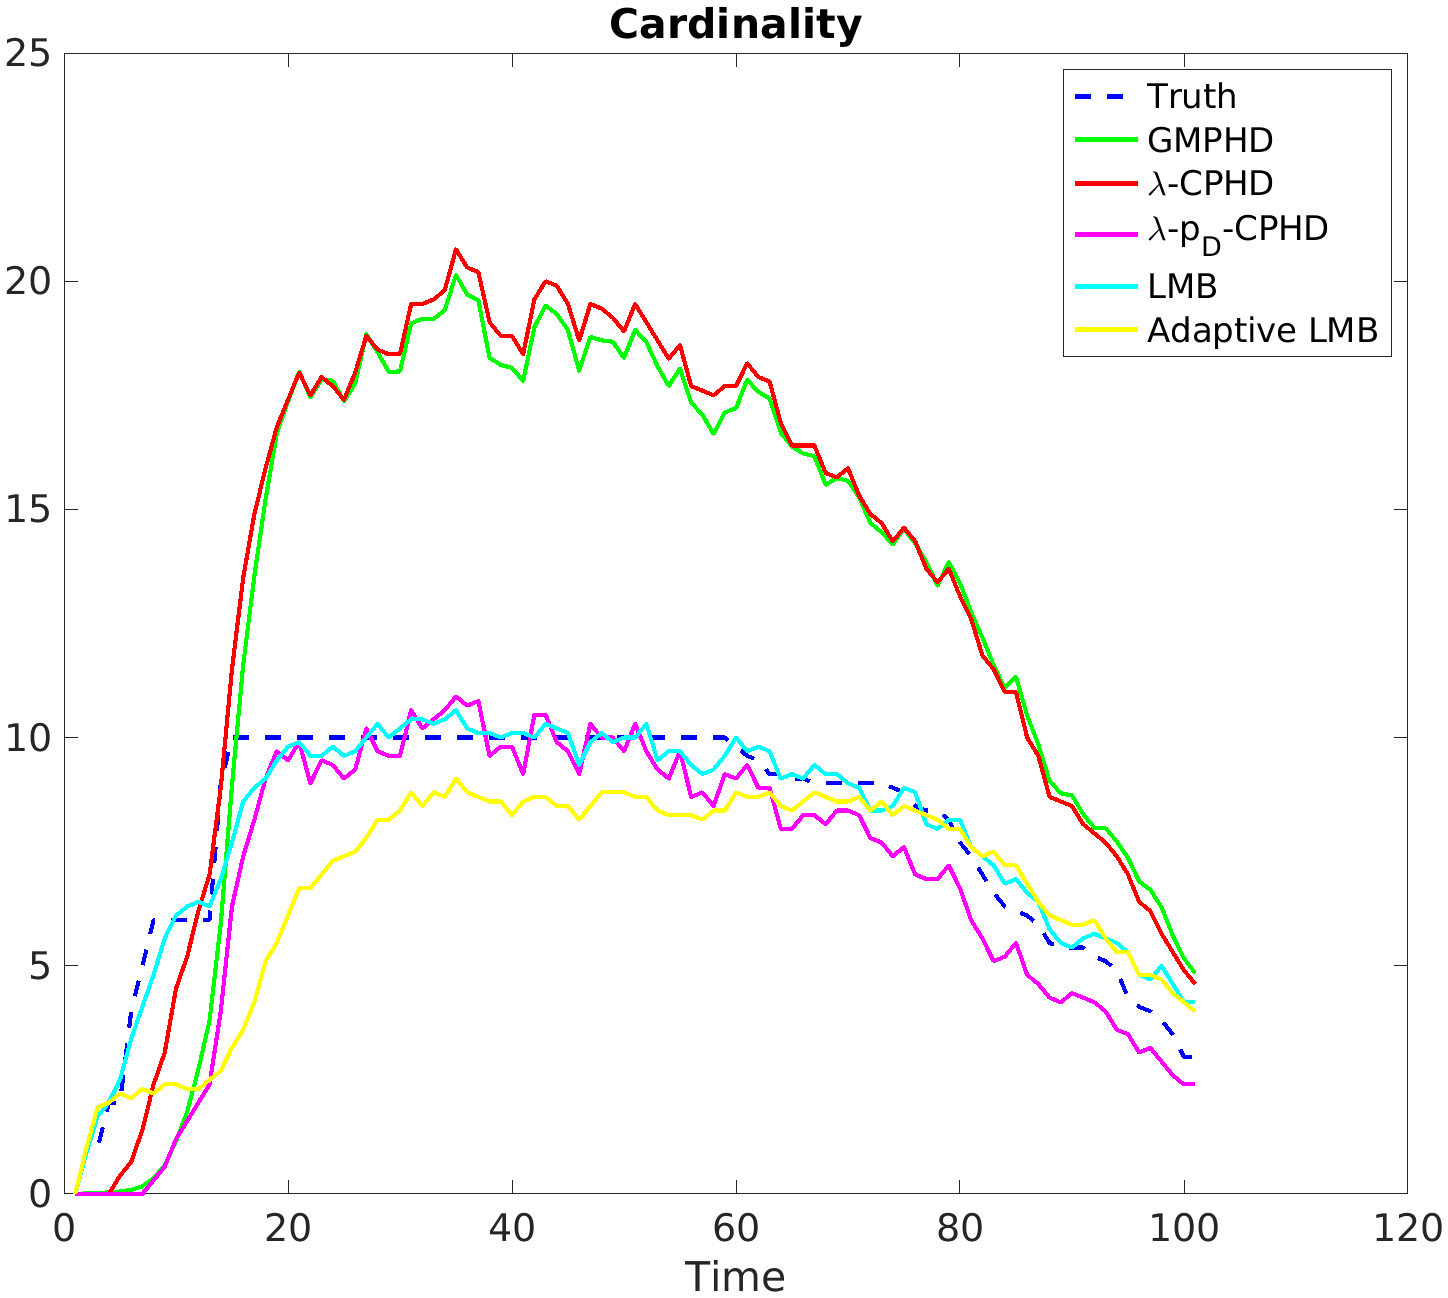
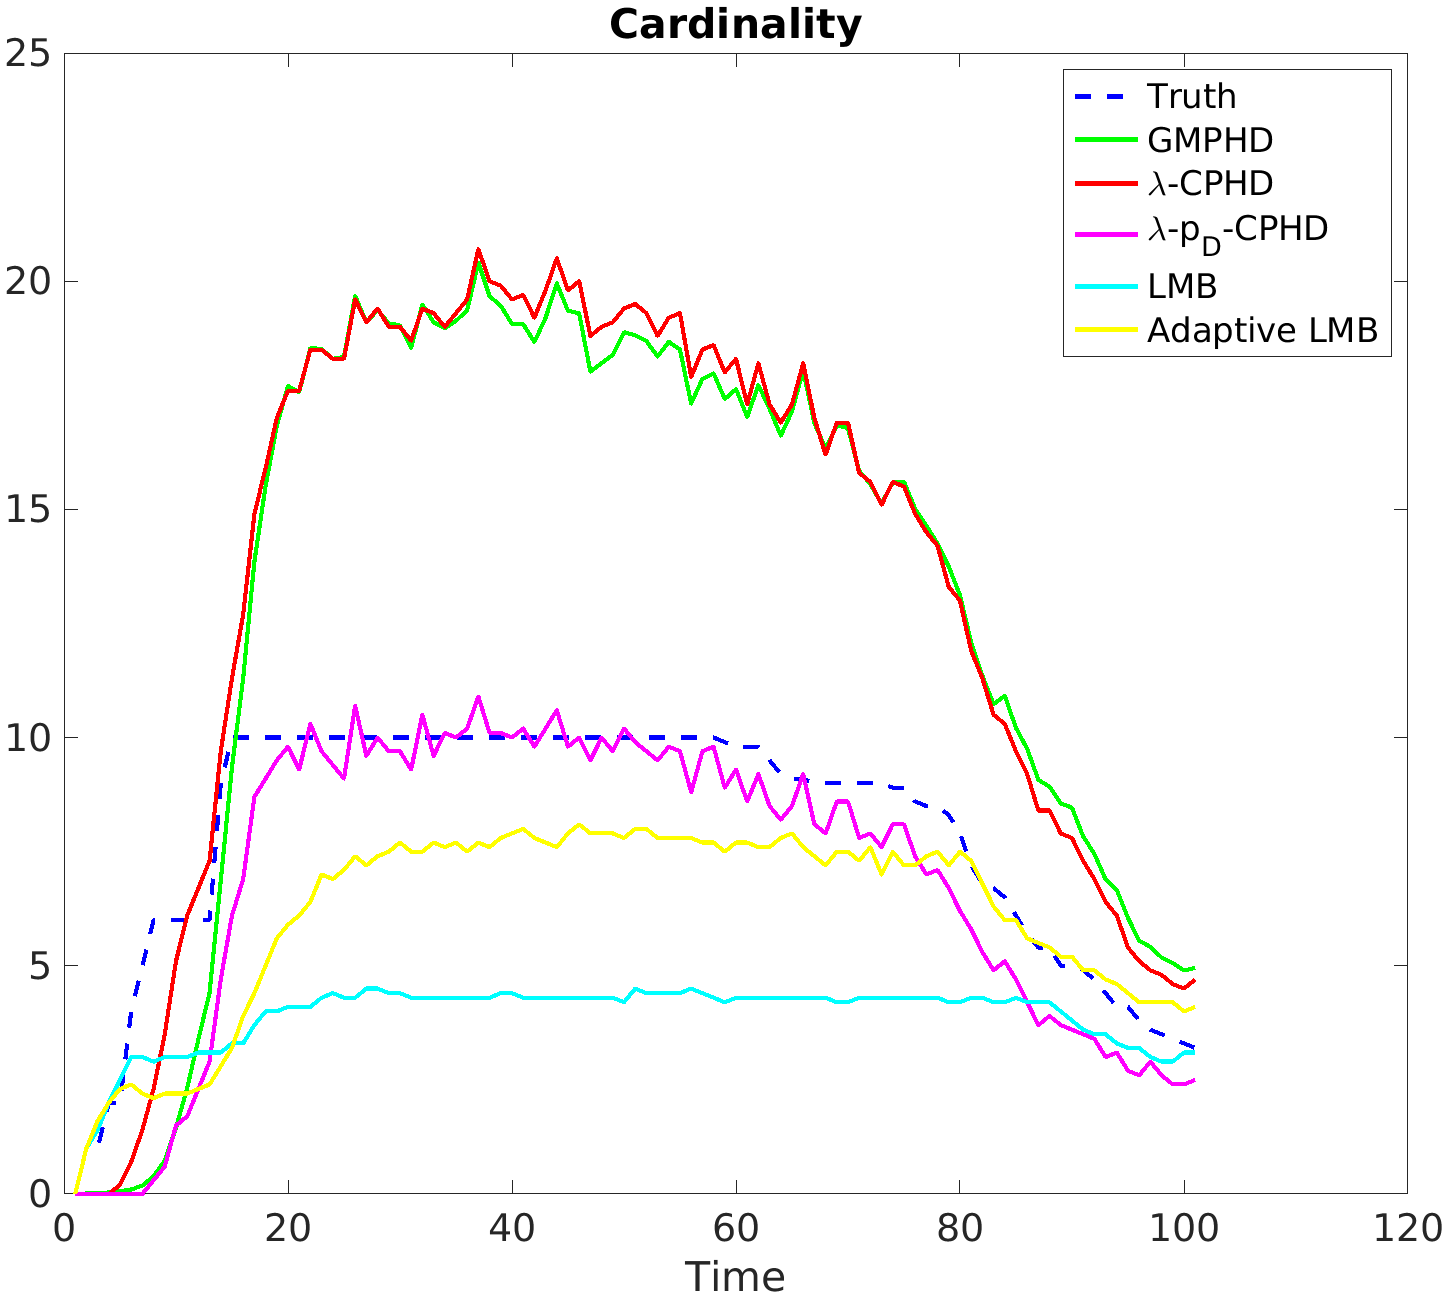
updated figures, wrote conclusion

diff --git a/report/meng_report.tex b/report/meng_report.tex
@@ -33,6 +33,8 @@
 \newcommand{\tgtj}{{(j,1)}}
 \newcommand{\cluti}{{(i,0)}}
 \newcommand{\tgti}{{(i,1)}}
+\newcommand{\lcphd}{$\lambda$-CPHD}
+\newcommand{\lpdcphd}{$\lambda$-$p_D$-CPHD}
 
 % PDF specific setup, links, title, bookmarks
 \hypersetup
@@ -710,24 +712,25 @@ These results generally align with the expected relative performance of the diff
 \end{figure}
 The estimated clutter and target detection probabilities, and clutter rate from the $\lambda$-$p_D$-CPHD filter, which are also used in the adaptive LMB filter all exhibit some degree of bias, but wind up generating at least sane estimates of their respective parameters, if not extremely accurate estimates. The cardinality estimates of the adaptive LMB filter appear to be more sensitive to the errors in these parameters than those of the $\lambda$-$p_D$-CPHD filter do, with the adaptive LMB showing both a larger RMS error and a larger overall cardinality bias with the mean cardinality error. One other source of parameter estimate error is that as implemented, none of the filtering algorithms take the sensor field of view into account. When a target passes out of the field of view the intensity components associated with that target will remain, and since they stop having measurements associated with them because the target is out of the field of view they wind up skewing the parameter estimates. This can be observed easily in the estimated target detection probability. The true cardinality of visible targets starts to decrease at $t \approx 60$ as targets start to reach the edge of the field of view, and a corresponding decrease in the estimated target detection probability can be observed starting at the same time in figure \ref{fig:opt_param_est}(c).
 
-\subsection*{Comparing Parameters}
-
-\subsubsection*{Target Detection Probability ($p_D^{(1)}$)}
+\subsection*{Parameters Effects}
+Further tests were run to compare the effects of parameter choices on filter behavior. All of these filters were configured the same as in the above ``optimal'' filter tests, except as noted.
+\subsubsection*{Target Detection Probability ($p_D^\tgt$)}
+The filters were tested with the target detection probability value passed to the filters $p_d^\tgt$ set to half of the true target detection probability.
 \begin{table}[H]
   \centering
   \begin{tabular}{ c| c | c | c | c | c | c }
     & RMS $N_{err}$ & Mean $N_{err}$ & Std $N_{err}$ & Mean OSPA & Mean OSPA Loc. & Mean OSPA Card.\\
     \hline
-    $GMPHD$ & 6.66 & -5.12 & 4.27 & 5.15 & 0.699 & 4.55 \\
-    $\lambda-CPHD$ & 6.82 & -5.55 & 3.96 & 5.05 & 0.721 & 4.43 \\
-    $\lambda-p_D-CPHD$ & 2.04 & 1.08 & 1.74 & 3.35 & 0.976 & 2.47 \\
-    $LMB$ & 1.08 & -0.0168 & 1.08 & 2.47 & 1.47 & 1.1 \\
-    $Adaptive LMB$ & 2.3 & 1.23 & 1.95 & 3.32 & 1.26 & 2.15 \\
+    $GMPHD$ & 6.92 & -5.34 & 4.41 & 5.14 & 0.735 & 4.51 \\
+    $\lambda-CPHD$ & 7.01 & -5.66 & 4.13 & 5.09 & 0.8 & 4.39 \\
+    $\lambda-p_D-CPHD$ & 2.03 & 1.08 & 1.72 & 3.45 & 1 & 2.55 \\
+    $LMB$ & 4.6 & 4.05 & 2.17 & 7.02 & 2.39 & 4.73 \\
+    $Adaptive LMB$ & 2.59 & 1.84 & 1.83 & 3.88 & 1.41 & 2.56 \\
   \end{tabular}
-  \caption{Performance of filters with $p_D$ set to}
+  \caption{Performance of filters with $p_D$ set to half the nominal value}
   \label{tab:low_pd}
 \end{table}
-
+Changing the target detection 
 \begin{figure}[H]
   \centering
   \begin{subfigure}[t]{0.49\textwidth}
@@ -743,8 +746,16 @@ The estimated clutter and target detection probabilities, and clutter rate from 
   \end{subfigure}
 \caption{Cardinality estimates and OSPA distances for estimators with incorrect $p_D$}
 \end{figure}
+The GMPHD, $\lambda$-CPHD, and LMB filters all exhibit extremely high cardinality errors when run with and incorrect target detection probability. The cardinality estimates from the \lcphd and GMPHD filters both appear to be approximately twice the true cardinality. The cardinality estimate from the LMB filter on the other hand appears to be approximately half the true cardinality. The performance of the two filters that are adaptive in the target detection probability, the adaptive LMB and the \lpdcphd filter remain largely unchanged. Like in the optimal filtering case the \lpdcphd filter appears to outperform the adaptive LMB filter in terms of both cardinality and OSPA.
 
 \subsubsection*{Target Birth Model ($\Gamma^{(1)}$)}
+The filters were run against a birth model consisting of a single gaussian component located along the left edge of the sensor's field of view. The weight of the component was not changed relative to the birth model used for testing the ``optimal'' filters
+\begin{figure}[H]
+  \centering
+  \includegraphics[width=.75\linewidth]{bad_birth/bm.png}
+  \label{fig:birth_model}
+  \caption{Inaccurate birth model}
+\end{figure}
 
 \begin{table}[H]
   \centering
@@ -757,7 +768,7 @@ The estimated clutter and target detection probabilities, and clutter rate from 
     $LMB$ & 5.17 & 4.65 & 2.25 & 6.73 & 1.12 & 5.72 \\
     $Adaptive LMB$ & 6.36 & 5.63 & 2.96 & 7.9 & 1.57 & 6.43 \\
   \end{tabular}
-  \caption{}
+  \caption{Filter performance with an inaccurate birth model}
   \label{tab:}
 \end{table}
 \begin{figure}[H]
@@ -773,10 +784,12 @@ The estimated clutter and target detection probabilities, and clutter rate from 
     \includegraphics[width=1\linewidth]{bad_birth/ospa.png}
     \caption{OSPA distances}
   \end{subfigure}
-\caption{Cardinality estimates and OSPA distances for estimators with incorrect target birth model}
+  \caption{Cardinality estimates and OSPA distances for estimators with incorrect target birth model}
+  \label{fig:bad_bm_performance}
 \end{figure}
-
+The GMPHD, $\lambda$-CPHD, and $\lambda$-$p_D$-CPHD filters all seem to be much more robust to errors in the birth model than the LMB and adaptive LMB filters. While all of the filters show an increased OSPA distance relative to their optimal results, the OSPA distances for for the LMB and adaptive LMB filters more than doubled. This inaccuracy seems to be driven primarily by cardinality error. As shown in figure \ref{fig:bad_bm_performance}(a) both of these filters consistently tracked fewer than half of the targets.
 \subsubsection*{Target Survival Probability ($p_S^{(1)}$)}
+The target survival probability value, $p_S^\tgt$, that was passed to the filters was increased from the ``true'' value of $0.9$ to $0.99$ for the next test.
 \begin{table}[H]
   \centering
 \begin{tabular}{ c| c | c | c | c | c | c }
@@ -788,9 +801,10 @@ The estimated clutter and target detection probabilities, and clutter rate from 
   $LMB$ & 1.64 & -1.14 & 1.18 & 2.51 & 0.998 & 1.61 \\
   $Adaptive LMB$ & 3.3 & -0.64 & 3.24 & 3.59 & 1.37 & 2.32 \\
 \end{tabular}
-  \caption{}
-  \label{tab:}
+  \caption{Filter performance with an inaccurate survival probability}
+  \label{tab:high_ps}
 \end{table}
+The primary effect of running the filters with a target survival probability of $0.99$ seemed to be to add a small bias to most of the cardinality estimates. The exception is the adaptive LMB filter, whose cardinality estimate appears to start to diverge once the visible target population starts to decrease. One possible reason for this is that the estimated target detection probability also appears to be diverging as seen in Figure \ref{fig:high_ps_param_est}(c).
 
 \begin{figure}[H]
   \centering
@@ -807,8 +821,31 @@ The estimated clutter and target detection probabilities, and clutter rate from 
   \end{subfigure}
 \caption{Cardinality estimates and OSPA distances for estimators with incorrect target survival probability}
 \end{figure}
+\begin{figure}[H]
+  \centering
+  \begin{subfigure}[t]{0.32\textwidth}
+    \centering
+    \includegraphics[width=1\linewidth]{high_ps/lpdcphd_lambda_hat.png}
+    \caption{Clutter rate}
+  \end{subfigure}%
+  ~ 
+  \begin{subfigure}[t]{0.32\textwidth}
+    \centering
+    \includegraphics[width=1\linewidth]{high_ps/pd0_hat.png}
+    \caption{Clutter detection probability}
+  \end{subfigure}
+  ~ 
+  \begin{subfigure}[t]{0.32\textwidth}
+    \centering
+    \includegraphics[width=1\linewidth]{high_ps/pd1_hat.png}
+    \caption{Target detection probability}
+  \end{subfigure}  
+  \caption{Parameter estimates from $\lambda$-$p_D$-CPHD with incorrect target survival probability}
+  \label{fig:high_ps_param_est}
+\end{figure}
 
 \subsubsection*{Clutter Rate ($\lambda$)}
+Finally, a test was run with the clutter rate for each filter set to half of the actual clutter rate.
 \begin{table}[H]
   \centering
   \begin{tabular}{ c| c | c | c | c | c | c }
@@ -820,8 +857,8 @@ The estimated clutter and target detection probabilities, and clutter rate from 
     $LMB$ & 2.26 & -1.89 & 1.23 & 3.04 & 1.04 & 2.1 \\
   $Adaptive LMB$ & 2.34 & 1.43 & 1.85 & 3.51 & 1.4 & 2.21 \\
 \end{tabular}  
-  \caption{}
-  \label{tab:}
+  \caption{Filter performance with an inaccurate clutter rate}
+  \label{tab:low_clutter}
 \end{table}
 \begin{figure}[H]
   \centering
@@ -838,16 +875,34 @@ The estimated clutter and target detection probabilities, and clutter rate from 
   \end{subfigure}
 \caption{Cardinality estimates and OSPA distances for estimators with incorrect clutter rate}
 \end{figure}
+The \lcphd, \lpdcphd, and adaptive LMB filter all estimate their own clutter rates, and so were unaffected by the incorrect clutter rate. The LMB filter still performed reasonably well, but not as well as the \lpdcphd did. The GMPHD filter appeared to be very susceptible to cardinality errors caused by the incorrect clutter rate and exibited a significant bias in the cardinality of its estimates.
+
+\section*{Conclusions}
+Under optimal conditions the labeled multi-Bernoulli filter clearly outperformed all of the other filters, with the lowest OSPA score and almost 0 cardinality bias; however, it appears to be very sensitive to differences between the model parameters it uses and the true system. This was especially true for the target detection probability and birth model, where inaccuracies in the parameters resulted in significant estimation errors. The \lcphd and GMPHD were similarly extremely susceptible to errors in the target detection probability, which induced significant biases in the cardinality estimates. The \lpdcphd and the adaptive LMB filter were unsurprisingly the most robust to incorrect parameters, as they have the ability to estimate some of the parameters on the fly. However, the adaptive LMB filter did appear to have a strange sensitivity to survival probability that none of the other filters exhibited. The \lpdcphd filter was almost never the best performing filter in any of the tests; however, it appeared to be robust to almost all of the modelling errors that were tested. In a situation that can be well modeled a filter like the LMB will almost certainly outperform the \lpdcphd. However, in real world tracking applications, where the true model parameters are often not well known the more robust \lpdcphd filter seems like a better choice. Additionally, in many  real world applications being able to provide better ``worst case'' performance can be more important than best case performance, and the ``worst case'' performance of the \lpdcphd filter was significantly better than any of the other 4 filters that were tested.\\
+\\
+Another reason that the \lpdcphd filter is an attractive choice is that it offers a good balance of performance and computational complexity. The execution times for each filter were tracked during the testing, and the average time per estimate was calculated for each filter
+
+\begin{table}[H]
+  \centering
+  \begin{tabular}{ c| c }
+    & Mean Est. Time (s) \\
+      \hline
+      $GMPHD$ & 0.03 \\
+    $\lambda-CPHD$ & 0.06 \\
+    $\lambda-p_D-CPHD$ & 0.07 \\
+    $LMB$ & .23 \\
+    $Adaptive LMB$ & .30 \\
+  \end{tabular}
+  \caption{Average estimation time}
+  \label{tab:exec_time}
+\end{table}
+and while none of these implementations were done with a significant emphasis on performance, these numbers give a good ``order of magnitude'' comparison of the computational requirements for each filter.
+
 
 % Bibliography
 \clearpage
 \pagebreak
 \printbibliography
 
-% Appendicies
-\section*{Appendix 1: Matlab Code}
-\subsection*{foo.m}
-\begin{lstlisting}[language=Matlab]
-\end{lstlisting}
 
 \end{document}

diff --git a/test_filters.m b/test_filters.m
@@ -640,13 +640,13 @@ if exist('run_complete', 'var') == 0
 
     report_dir = "./report_data/";
     opt_data = report_dir + "20231216T122327.9915_gmphd_lcphd_lpdcphd_lmb_almb.mat";
-    low_pd_data = report_dir + "20231216T135322.373_gmphd_lcphd_lpdcphd_lmb_almb.mat";
+    low_pd_data = report_dir + "20231216T205525.1072_gmphd_lcphd_lpdcphd_lmb_almb.mat";
     bad_birth_data = report_dir + "20231216T14470.23496_gmphd_lcphd_lpdcphd_lmb_almb.mat";
     high_ps_data = report_dir + "20231216T153647.3062_gmphd_lcphd_lpdcphd_lmb_almb.mat";
     low_clutter_data = report_dir + "20231216T165828.8285_gmphd_lcphd_lpdcphd_lmb_almb.mat";
 
     %load_path = data_dir + to_load;
-    load_path = low_clutter_data;
+    load_path = low_pd_data;
     fprintf('Loading data from %s\n', load_path)
     load(load_path);
     clear 'run_complete'
